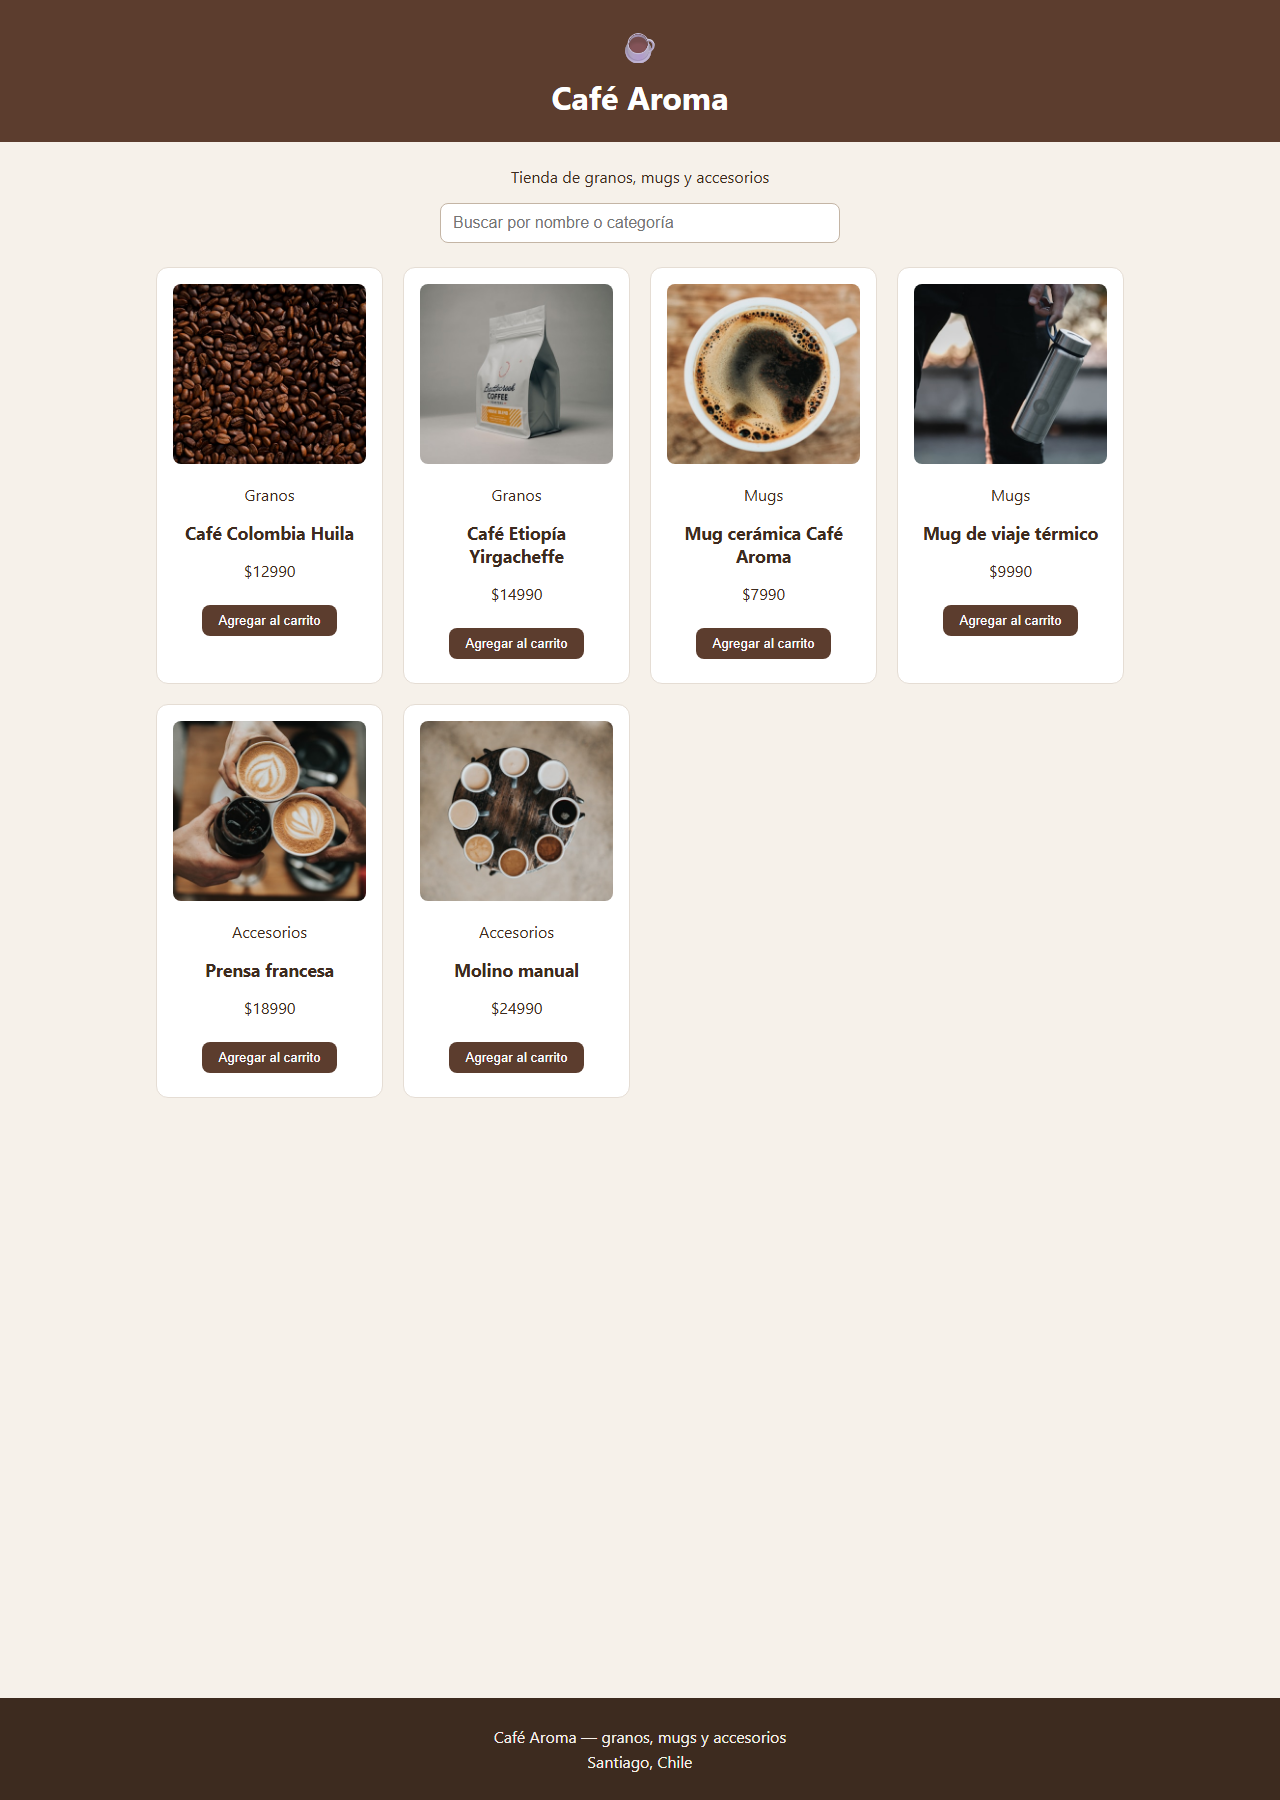
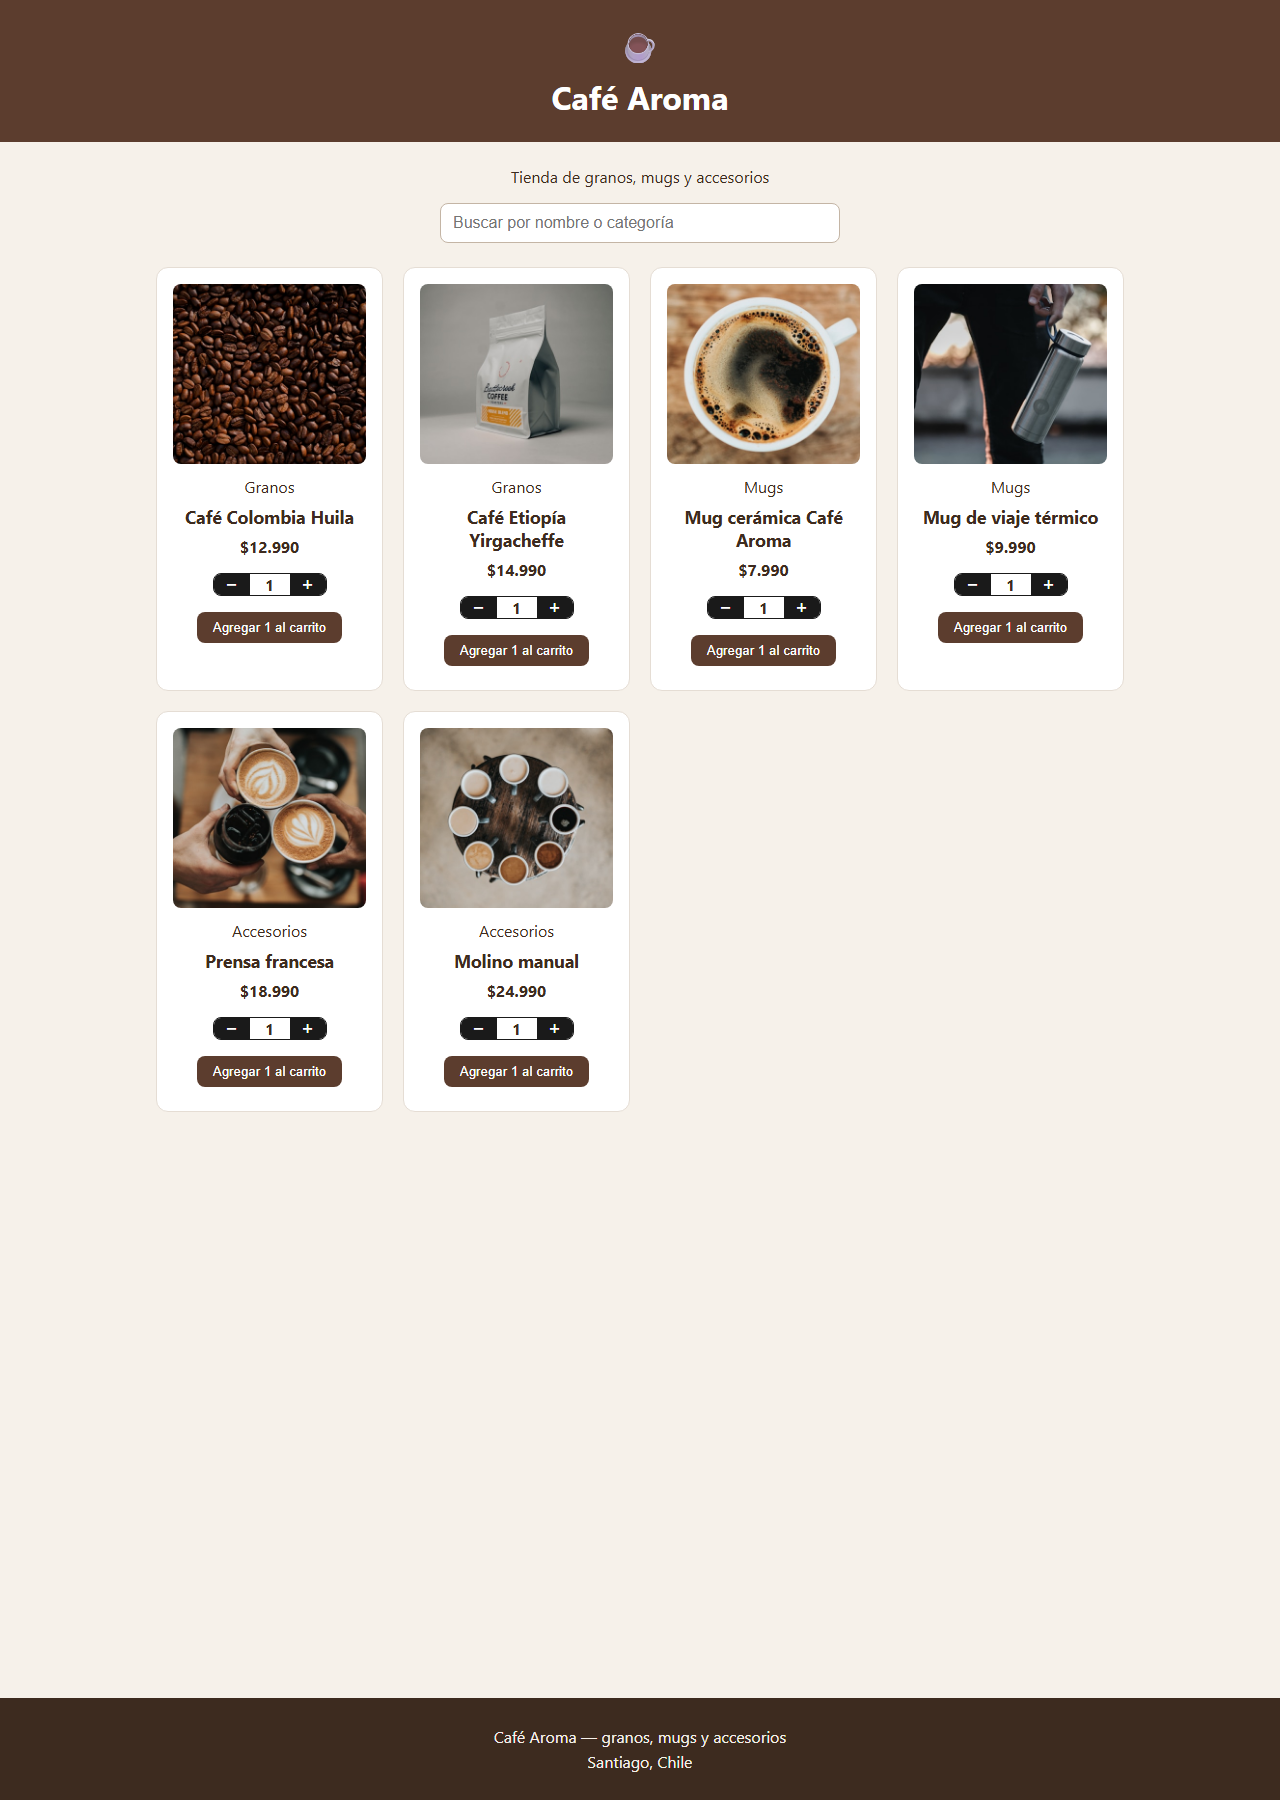
Guardar fotos locales, cantidad y el aviso del carrito.

diff --git a/src/data/products.js b/src/data/products.js
@@ -1,44 +1,51 @@
+import cafeColombia from '../assets/imagenes/cafe-colombia-huila.jpg'
+import cafeEtiopia from '../assets/imagenes/cafe-etiopia-yirgacheffe.jpg'
+import mugCeramica from '../assets/imagenes/mug-ceramica.jpg'
+import mugViaje from '../assets/imagenes/mug-viaje.jpg'
+import prensaFrancesa from '../assets/imagenes/prensa-francesa.jpg'
+import molinoManual from '../assets/imagenes/molino-manual.jpg'
+
 export const products = [
   {
     id: 1,
     name: 'Café Colombia Huila',
     price: 12990,
     category: 'Granos',
-    image: 'https://images.unsplash.com/photo-1447933601403-0c6688de566e?w=400&h=400&fit=crop',
+    image: cafeColombia,
   },
   {
     id: 2,
     name: 'Café Etiopía Yirgacheffe',
     price: 14990,
     category: 'Granos',
-    image: 'https://images.unsplash.com/photo-1559056199-641a0ac8b55e?w=400&h=400&fit=crop',
+    image: cafeEtiopia,
   },
   {
     id: 3,
     name: 'Mug cerámica Café Aroma',
     price: 7990,
     category: 'Mugs',
-    image: 'https://images.unsplash.com/photo-1514432324607-a09d9b4aefdd?w=400&h=400&fit=crop',
+    image: mugCeramica,
   },
   {
     id: 4,
     name: 'Mug de viaje térmico',
     price: 9990,
     category: 'Mugs',
-    image: 'https://images.unsplash.com/photo-1605539585404-a846f1193d19?w=400&h=400&fit=crop',
+    image: mugViaje,
   },
   {
     id: 5,
     name: 'Prensa francesa',
     price: 18990,
     category: 'Accesorios',
-    image: 'https://images.unsplash.com/photo-1495474472287-4d71bcdd2085?w=400&h=400&fit=crop',
+    image: prensaFrancesa,
   },
   {
     id: 6,
     name: 'Molino manual',
     price: 24990,
     category: 'Accesorios',
-    image: 'https://images.unsplash.com/photo-1498804103079-a6351b050096?w=400&h=400&fit=crop',
+    image: molinoManual,
   },
 ]

diff --git a/src/App.jsx b/src/App.jsx
@@ -1,16 +1,16 @@
 import { useState } from 'react'
 import './App.css'
 import Header from './components/Header'
-import Footer from './components/Footer'
 import SearchBar from './components/SearchBar'
 import ProductList from './components/ProductList'
+import Footer from './components/Footer'
 import { products } from './data/products'
 
 function App() {
   const [search, setSearch] = useState('')
 
+  const text = search.toLowerCase()
   const filteredProducts = products.filter((product) => {
-    const text = search.toLowerCase()
     const name = product.name.toLowerCase()
     const category = product.category.toLowerCase()
     return name.includes(text) || category.includes(text)
@@ -20,19 +20,24 @@ function App() {
     setSearch(event.target.value)
   }
 
+  let productArea
+  if (filteredProducts.length === 0) {
+    productArea = (
+      <p className="empty-message">
+        No hay productos que coincidan con tu búsqueda.
+      </p>
+    )
+  } else {
+    productArea = <ProductList products={filteredProducts} />
+  }
+
   return (
     <div className="app">
       <Header />
       <main className="main">
         <p className="main-subtitle">Tienda de granos, mugs y accesorios</p>
         <SearchBar value={search} onChange={handleSearchChange} />
-        {filteredProducts.length === 0 ? (
-          <p className="empty-message">
-            No hay productos que coincidan con tu búsqueda.
-          </p>
-        ) : (
-          <ProductList products={filteredProducts} />
-        )}
+        {productArea}
       </main>
       <Footer />
     </div>

diff --git a/src/components/ProductCard.jsx b/src/components/ProductCard.jsx
@@ -1,13 +1,38 @@
+import { useState } from 'react'
 import Button from './Button'
+import QuantitySelector from './QuantitySelector'
 
 function ProductCard({ product }) {
+  const [quantity, setQuantity] = useState(1)
+
+  function handleMinus() {
+    if (quantity > 1) {
+      setQuantity(quantity - 1)
+    }
+  }
+
+  function handlePlus() {
+    setQuantity(quantity + 1)
+  }
+
+  function handleAddToCart() {
+    alert('Próximamente habilitaremos esta sección')
+  }
+
   return (
     <article className="product-card">
       <img src={product.image} alt={product.name} />
-      <p>{product.category}</p>
+      <p className="product-category">{product.category}</p>
       <h2>{product.name}</h2>
-      <p>${product.price}</p>
-      <Button variant="primary">Agregar al carrito</Button>
+      <p className="product-price">${product.price.toLocaleString('es-CL')}</p>
+      <QuantitySelector
+        value={quantity}
+        onMinus={handleMinus}
+        onPlus={handlePlus}
+      />
+      <Button variant="primary" onClick={handleAddToCart}>
+        Agregar {quantity} al carrito
+      </Button>
     </article>
   )
 }

diff --git a/src/App.css b/src/App.css
@@ -70,9 +70,46 @@
   border-radius: 8px;
 }
 
+.product-category {
+  margin: 8px 0 0;
+}
+
 .product-card h2 {
   margin: 8px 0;
   font-size: 1.1rem;
+}
+
+.product-price {
+  margin: 8px 0;
+  font-weight: 700;
+}
+
+.quantity-selector {
+  display: inline-flex;
+  align-items: stretch;
+  margin: 8px auto;
+  border-radius: 8px;
+  overflow: hidden;
+  border: 1px solid #1a1a1a;
+}
+
+.quantity-btn {
+  width: 36px;
+  background: #1a1a1a;
+  color: #fff;
+  border: none;
+  cursor: pointer;
+  font-size: 1.2rem;
+  line-height: 1;
+}
+
+.quantity-value {
+  min-width: 40px;
+  display: flex;
+  align-items: center;
+  justify-content: center;
+  background: #fff;
+  font-weight: 700;
 }
 
 .footer {

diff --git a/src/components/Button.jsx b/src/components/Button.jsx
@@ -1,9 +1,12 @@
-function Button({ variant, children }) {
-  const className =
-    variant === 'secondary' ? 'btn btn-secondary' : 'btn btn-primary'
+function Button({ variant, children, onClick }) {
+  let className = 'btn btn-primary'
+
+  if (variant === 'secondary') {
+    className = 'btn btn-secondary'
+  }
 
   return (
-    <button type="button" className={className}>
+    <button type="button" className={className} onClick={onClick}>
       {children}
     </button>
   )

diff --git a/src/components/QuantitySelector.jsx b/src/components/QuantitySelector.jsx
@@ -1,0 +1,15 @@
+function QuantitySelector({ value, onMinus, onPlus }) {
+  return (
+    <div className="quantity-selector">
+      <button type="button" className="quantity-btn" onClick={onMinus}>
+        −
+      </button>
+      <span className="quantity-value">{value}</span>
+      <button type="button" className="quantity-btn" onClick={onPlus}>
+        +
+      </button>
+    </div>
+  )
+}
+
+export default QuantitySelector

diff --git a/index.html b/index.html
@@ -1,10 +1,10 @@
 <!doctype html>
-<html lang="en">
+<html lang="es">
   <head>
     <meta charset="UTF-8" />
     <link rel="icon" type="image/svg+xml" href="/favicon.svg" />
     <meta name="viewport" content="width=device-width, initial-scale=1.0" />
-    <title>prueba-e-comerce-componentes</title>
+    <title>Café Aroma</title>
   </head>
   <body>
     <div id="root"></div>

diff --git a/README.md b/README.md
@@ -17,7 +17,8 @@ Cada componente está en su propio archivo dentro de `src/components/`.
 - **Header**: logo y nombre de la tienda.
 - **SearchBar**: caja de búsqueda. Recibe `value` y `onChange` por props (datos que le pasa el padre).
 - **ProductList**: recorre el array con `.map()` y usa `key={product.id}`.
-- **ProductCard**: recibe el producto por **props** y muestra imagen, categoría, nombre, precio y botón.
+- **ProductCard**: recibe el producto por **props** y muestra imagen, categoría, nombre, precio, cantidad y botón.
+- **QuantitySelector**: botones + y − para elegir cuántas unidades comprar.
 - **Button**: botón reutilizable. Cambia de aspecto según `variant` (`primary` o `secondary`).
 - **Footer**: datos de la tienda (nombre y ciudad).
 
